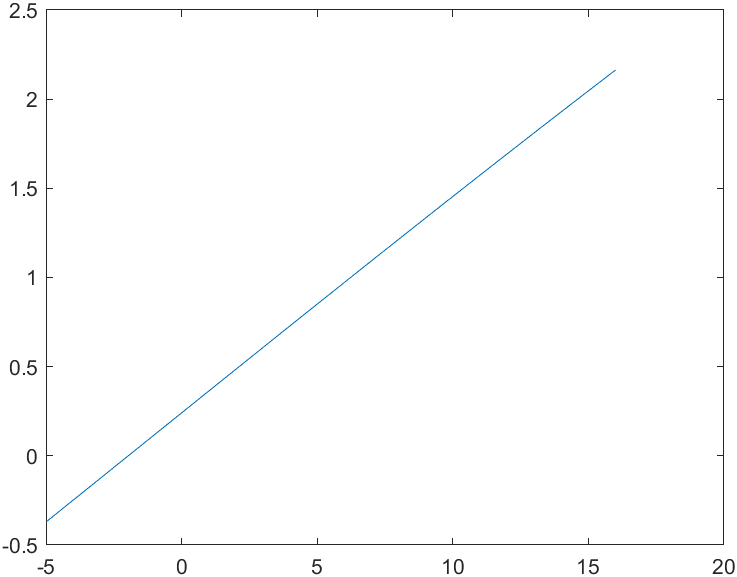
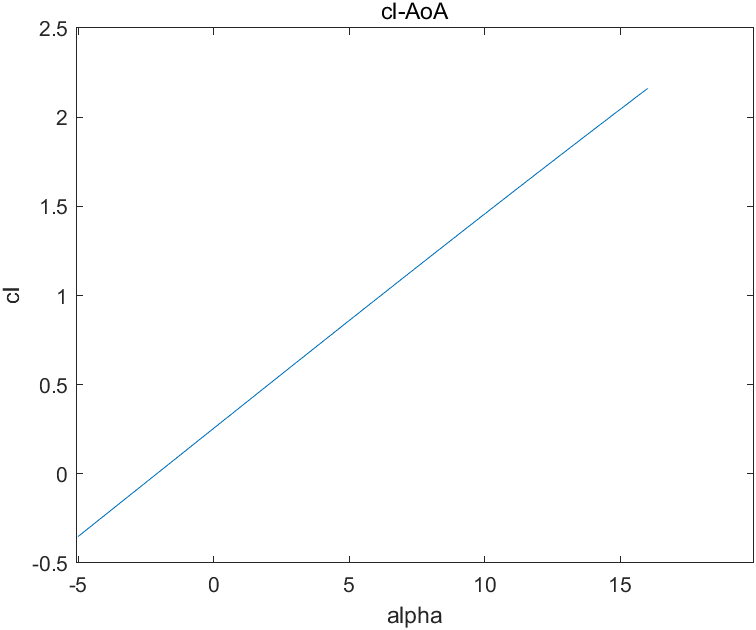
修改

diff --git a/src/vortex_panel_method_gpu.m b/src/vortex_panel_method_gpu.m
@@ -1,0 +1,90 @@
+%% 涡板块法计算函数
+%输出数据
+%cp 压强系数
+%l  升力
+%cl 升力系数
+%m  力矩
+%cm 力矩系数
+%输入数据
+%n  翼型号（4 5 6位）
+%alpha 攻角（°）,支持数组
+%c  弦长(m)
+%s  板块数的一半
+%v  来流速度
+function[cp,l,cl,x]=vortex_panel_method_gpu(n,alpha,c,s,v)
+
+[x_u, x_l, y_u, y_l]=naca(n,0,c,s+1,1,1);  
+%构建几何形状
+
+x_l=(fliplr(x_l))';
+y_l=(fliplr(y_l))';
+%下翼面坐标顺序倒置
+
+x=gpuArray([x_u'; x_l(2:end-1)]);
+y=gpuArray([y_u'; y_l(2:end-1)]);
+%几何点数据合并
+
+
+
+data=gpuArray.zeros(2*s-1,4);
+%   预分配内存
+%   x 控制点x坐标 1
+%   y 控制点y坐标 2
+%   length of panel 3
+%   theta (rad) 板块与x轴夹角 4
+%   每行为一个板块的数据
+
+data(:,1)=(x(1:end-1)+x(2:end))./2;
+data(:,2)=(y(1:end-1)+y(2:end))./2;
+%根据翼型几何数据求出涡板块控制点坐标
+
+data(:,3)=sqrt((x(1:end-1)-x(2:end)).^2+(y(1:end-1)-y(2:end)).^2);
+%求出板块长度
+
+data(:,4)=atan((y(1:end-1)-y(2:end))./(x(1:end-1)-x(2:end)));
+%求出板块与x轴夹角
+
+J=gpuArray.zeros(2*s-1);
+%J矩阵预分配内存
+
+J=(1+((data(:,2)-(data(:,2))')./(data(:,1)-(data(:,1))')).^2).^(-1).*(sin(data(:,4)).*(data(:,2)-(data(:,2))')./(data(:,1)-(data(:,1))').^2+cos(data(:,4)).*(data(:,1)-(data(:,1))').^(-1));
+%求出方向导数
+
+b=v.*cos(pi/2-(data(:,4)-(alpha.*pi./180))).*(2*pi);
+A=J.*(data(:,3))';
+A(isnan(A)) = 0;
+%构建方程组系数矩阵
+
+b(s,:)=0;
+A(s,:)=gpuArray.zeros(1,2*s-1);
+A(s,s:s+1)=[1,1];
+%库塔后缘条件，替代第s个方程
+
+gamma=A\b;
+%解出gamma
+
+Gamma=gpuArray.zeros(2*s-1,size(alpha,2));
+Gamma(1:end-1,:)=(gamma(1:end-1,:)+gamma(2:end,:))./2;
+Gamma(end,:)=(gamma(end,:)+gamma(1,:))./2;
+%去除噪声
+
+l=gather(-1.23*v*sum(gamma.*data(:,3)));
+%升力
+
+cl=2*l/(1.23*v^2*c);
+%升力系数
+
+cp=gather(1-(Gamma./v).^2);
+for j=1:size(alpha,2)
+    for i=2:(2*s-1)
+        if abs(cp(i,j))>3
+            cp(i,j)=cp(i-1,j);
+        end
+    end
+end
+%压力系数，抑制尖峰
+
+x=gather(data(:,1)./c);
+%输出x/c
+
+end

diff --git a/src/main.m b/src/main.m
@@ -2,16 +2,23 @@
 tic;
 
 n=2412;%你想计算的翼型，4,5,6位NACA均可
-alpha=[1,5];%输入你想要的攻角（°）
-s=1000;%上、下翼面的板块数量
+alpha=[-5:16];%输入你想要的攻角（°）
+s=10000;%上、下翼面的板块数量
 c=5;%弦长
 v=10;%速度
-[cp,l,cl,x]=vortex_panel_method(n,alpha,c,s,v);
-
+isgpu=1;%是否使用gpu求解
+if isgpu == 1
+    [cp,l,cl,x]=vortex_panel_method_gpu(n,alpha,c,s,v);
+else
+    [cp,l,cl,x]=vortex_panel_method(n,alpha,c,s,v);
+end
 f_1=figure(1);
-plot(alpha,cl);%画cl-AoA二维图
+plot(alpha,cl);%画cl-AoA图
+title('cl-AoA');
+xlabel('alpha');
+ylabel('cl');
 
-f_2=figure(2);
+f_2=figure(2);%画cp-x图
 f_2.Position(3)=f_2.Position(3)*size(alpha,2);
 tiledlayout(1,size(alpha,2));
 for i=1:size(alpha,2)

diff --git a/基于Matlab的涡板块法计算二维翼型气动.md b/基于Matlab的涡板块法计算二维翼型气动.md
@@ -232,7 +232,7 @@ end
 
 #### NACA2412在$-5^\circ < \alpha < 16^\circ$ 时升力系数$c_l$ 
 
-![图](images/cl-AoA.png "图片")
+![图1](images/cl-AoA.png "图片")
 
 #### NACA2412在$\alpha=5^\circ$时的$C_p$分布
 
@@ -240,4 +240,63 @@ end
 
 ## NVIDIA GPU加速计算
 
+### CPU计算的局限性
+
+当板块数量较大时，计算一个算例的时间较长
+
+![图3](images/time_1.png "n=20000时")
+
+然而，GPU由于其并行计算的架构，在解决矩阵相关问题时具有天然的优势，因此这里给出一个简单利用NVIDIA GPU对求解过程进行加速的示例
+
+### NVIDIA GPU求解示例
+
+#### 硬件要求
+
+Matlab中对GPU进行调用依赖NVIDIA CUDA，可使用
+
+```matlab
+gpuDevice
+```
+
+或者
+
+```cmd
+nvcc --version
+```
+
+来查看当前GPU是否支持
+
+#### 简单调用GPU的方法
+
+```matlab
+A_gpu=gpuArray(A);%将数组存入显存中，其后续运算将全部由GPU承担
+...%GPU计算
+A=gather(A_gpu);%将数组转入内存
+```
+
+#### 求解速度比较
+
+##### 使用设备
+
+> CPU: Intel Core i9-13900KF
+>
+> GPU: NVIDIA Geforce RTX 4090
+>
+> CUDA 12.3
+
+##### n=10000时
+
+###### CPU
+
+![图4](images/time_1.png "CPU")
+
+###### GPU
+
+![图5](images/time_2.png "GPU")
+
+不难发现，在相同板块数下，GPU的求解速度要比CPU高约1倍。
+
+然而GPU也有其局限性，在板块数更大的情况下，GPU容易显存不足
+
 ## 总结
+
